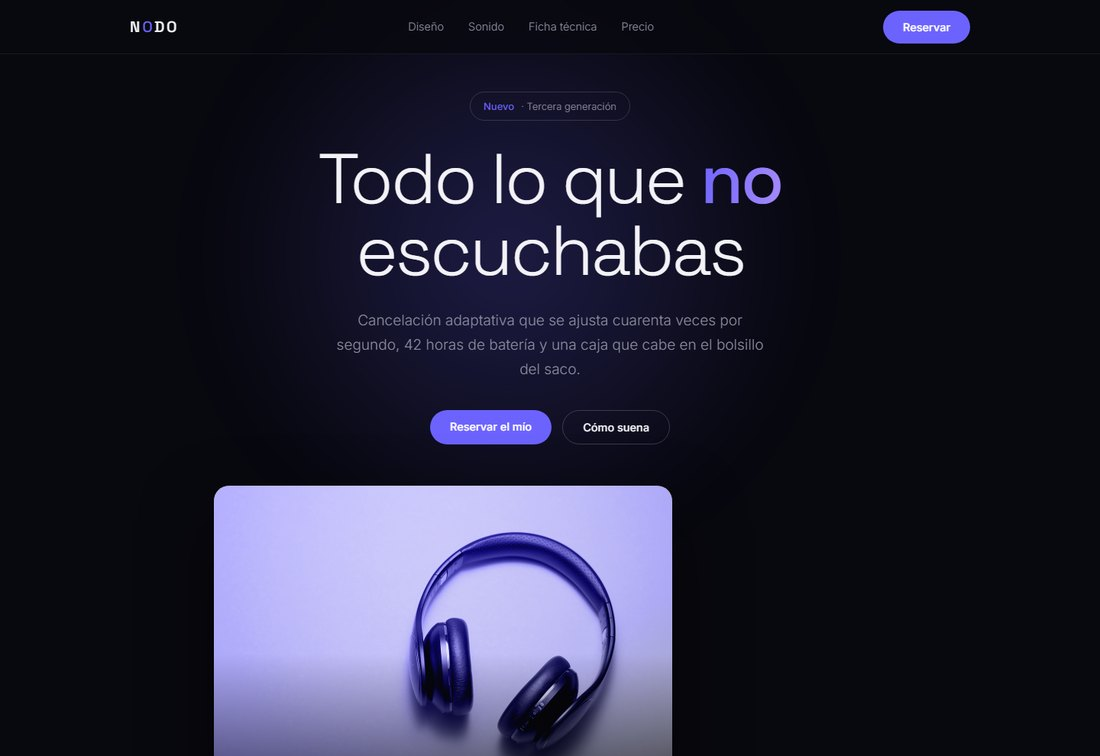
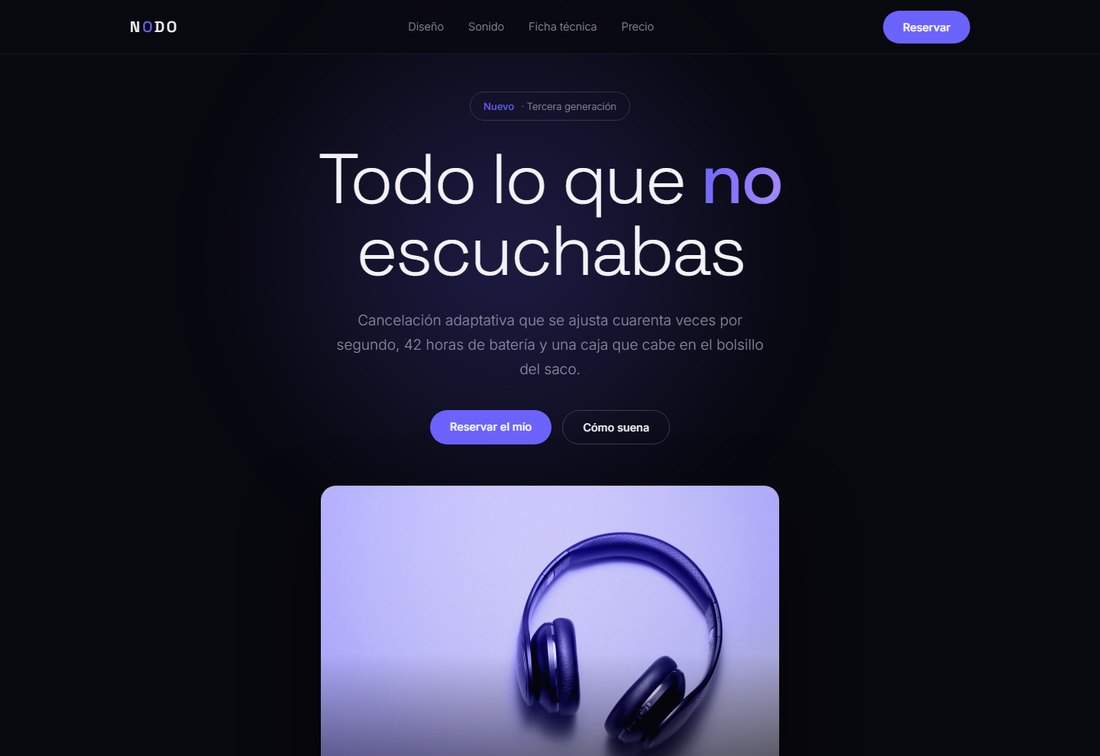
Producto: centrar la imagen del hero
El bloque tenia max-width pero no margin auto, asi que quedaba pegado
a la izquierda en vez de centrado bajo el titulo.

Changed region(s): [[0.3709, 0.6389, 0.7109, 1.0], [0.1855, 0.6389, 0.3091, 1.0]]

diff --git a/sitios/producto/index.html b/sitios/producto/index.html
@@ -57,7 +57,7 @@
   .hero p{color:var(--gris);font-size:19px;max-width:50ch;margin:28px auto 36px}
   .acciones{display:flex;gap:14px;justify-content:center;flex-wrap:wrap}
   /* el producto se tiñe con el color elegido: duotono por mezcla */
-  .producto{position:relative;z-index:2;margin-top:54px;max-width:600px;border-radius:20px;
+  .producto{position:relative;z-index:2;margin:54px auto 0;max-width:600px;border-radius:20px;
             overflow:hidden;background:linear-gradient(155deg,var(--acento) 0%,color-mix(in srgb,var(--acento) 55%,#0C0C14) 55%,#0C0C14 100%);
             box-shadow:0 40px 90px rgba(0,0,0,.6);transition:background .6s}
   .producto::after{content:"";position:absolute;inset:0;
